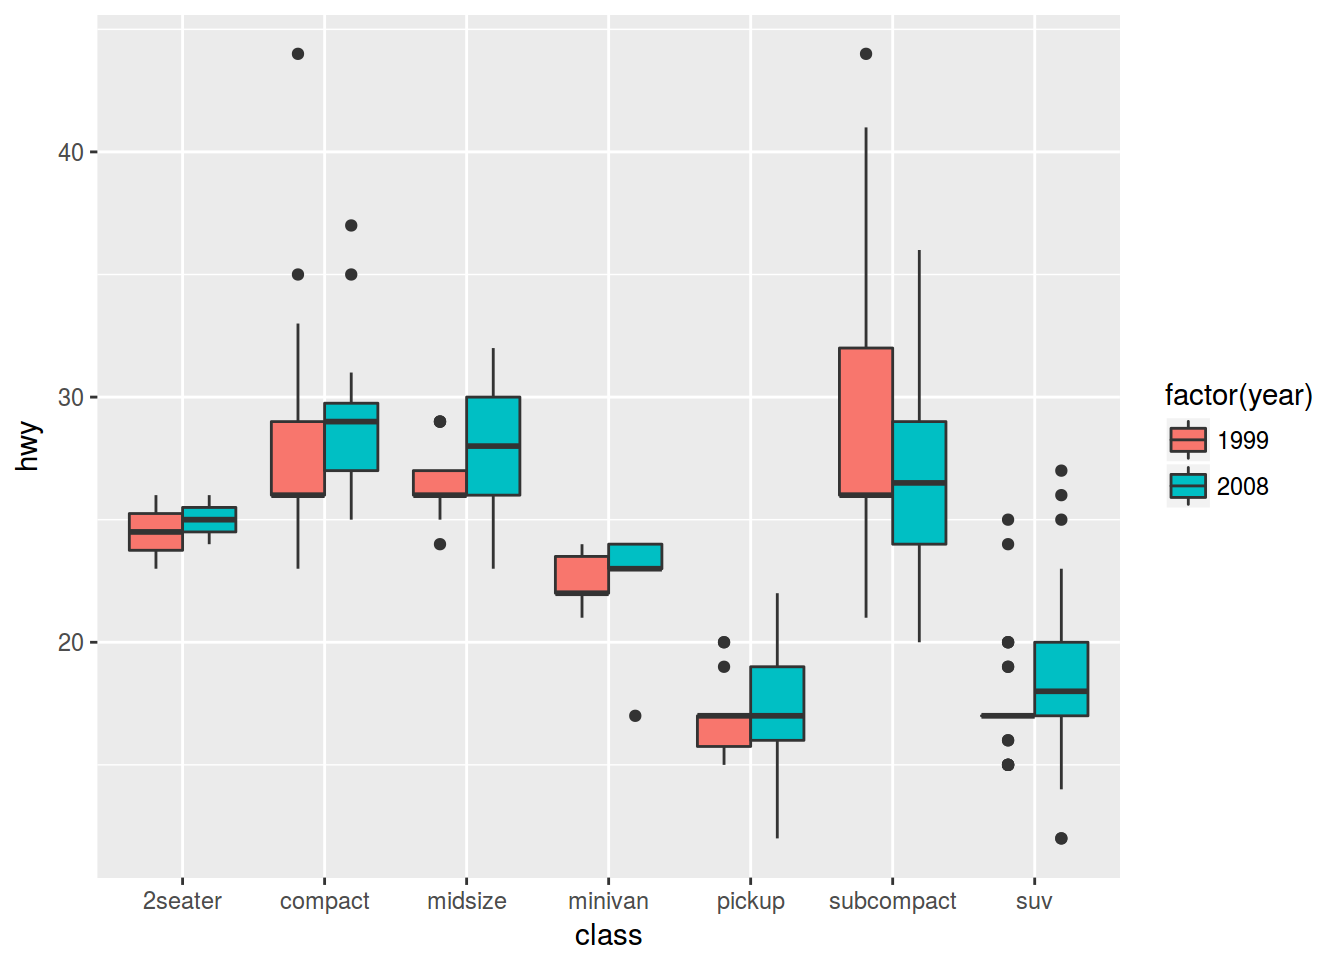
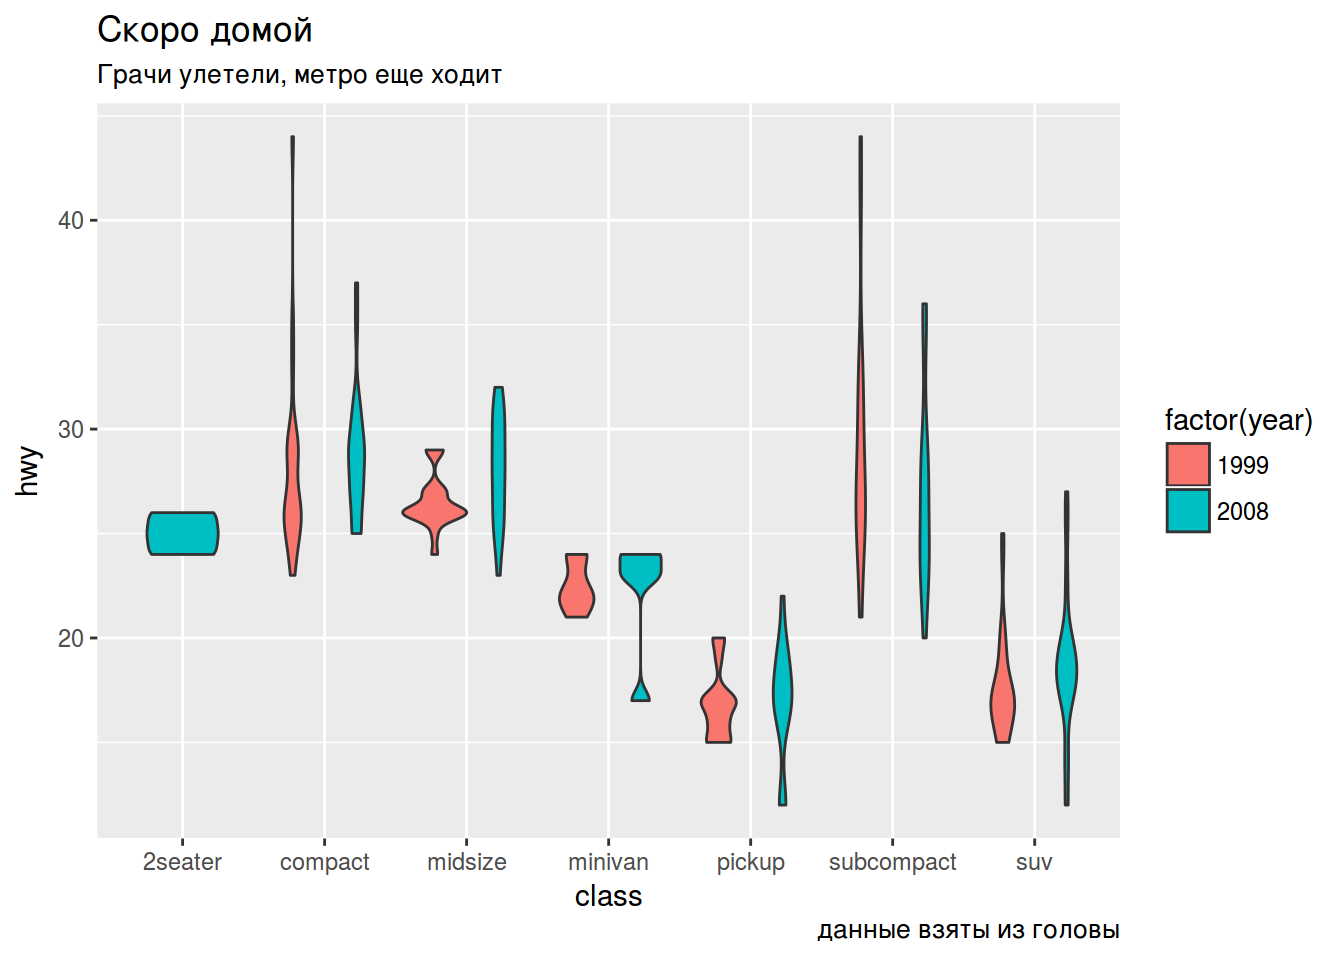
Пт. янв. 20 21:50:19 MSK 2017

diff --git a/docs/Lab_3.html b/docs/Lab_3.html
@@ -237,74 +237,74 @@ $(document).ready(function () {
 dim(g) &lt;- c(5, 10)
 g &lt;- as.data.frame(g)
 g</code></pre>
-<pre><code>##           V1         V2         V3         V4          V5         V6
-## 1 -0.3906030  0.2936376 0.40119968 -2.3344068  1.92845257 -0.5900489
-## 2 -0.3723893  2.0728213 0.81348038 -1.1789533  0.10655859 -0.6241216
-## 3  0.7289473  0.3300075 0.01256707  0.7861965 -0.42154211 -1.7413160
-## 4 -0.1967880  0.4308800 0.88226968 -1.1877634 -0.47596357 -1.4073735
-## 5  1.7636844 -0.3465119 0.72360821  0.3765420  0.03910785 -0.5044907
-##             V7         V8          V9           V10
-## 1 -0.005393339  1.0277711  0.37321027 -1.1573205536
-## 2  0.498100200 -0.4468808 -0.19205959  0.8546541967
-## 3  0.596288161  0.4464950  0.86280102 -1.2967087925
-## 4 -0.269423295 -2.0364316  0.22969663 -0.8217519238
-## 5  0.311527785  0.9988027 -0.04076106  0.0004408674</code></pre>
+<pre><code>##           V1          V2          V3         V4         V5         V6
+## 1 -0.7689990 -1.43682925  3.04209524 -0.6122412  0.4428761  0.1622869
+## 2 -0.1141673 -0.99499620 -1.80242105  1.1195237  1.2884774  0.8434801
+## 3 -1.4527077 -0.09575133  1.80806336  0.2329391 -0.1658976 -1.6407067
+## 4  0.6761093 -1.76329944 -0.67602275 -1.2443085  0.1207234 -1.1703167
+## 5  1.8337603  1.76377325 -0.09168387 -0.3919279 -1.6223369 -0.1888477
+##            V7        V8            V9        V10
+## 1 -0.78797796 1.3762243  0.0187352058  0.6159528
+## 2 -0.09277474 1.3051868  0.6856887918 -0.4159492
+## 3  1.28801116 0.4092669  1.0261824290  0.7339201
+## 4 -1.05455595 1.3285902  0.3753579520  1.1415605
+## 5  0.11466444 0.8944195 -0.0009426804  0.2096234</code></pre>
 <pre class="r"><code>f &lt;- rnorm(30)
 dim(f) &lt;- c(3, 10)
 f &lt;- as.data.frame(f)
 f</code></pre>
-<pre><code>##           V1         V2         V3         V4          V5         V6
-## 1 -0.2898858  2.5657225 -0.6356496  0.9423932  0.06843724  1.6305093
-## 2 -0.3505092 -1.2739990 -1.4405402  0.3651333  0.53277419  1.3377495
-## 3  0.7175777 -0.2451222  0.3634547 -1.2057409 -0.98229970 -0.1278048
-##           V7         V8          V9        V10
-## 1 -0.5677527 -1.1045213 -0.95998077 -0.4545042
-## 2  1.3079504  0.3664014  0.14079065 -1.2052325
-## 3 -1.6214024  0.3802638  0.02783065  0.7469217</code></pre>
+<pre><code>##           V1          V2         V3       V4        V5         V6
+## 1 -1.0537327  0.36883226 -0.5625077 1.316018 1.5440815  0.3545780
+## 2 -0.6528149 -0.22910308 -0.8981459 1.738867 0.9213121 -1.1025051
+## 3  0.9759025  0.09082125 -0.6058794 1.316407 0.7897068 -0.7268273
+##           V7         V8        V9        V10
+## 1  1.6358183  1.1927763 0.5631034 0.08834282
+## 2 -0.4924965 -1.1657266 0.7261409 1.01698924
+## 3 -1.6080715 -0.8399645 1.5903612 0.38924792</code></pre>
 <pre class="r"><code>rbind(g, f)</code></pre>
-<pre><code>##           V1         V2          V3         V4          V5         V6
-## 1 -0.3906030  0.2936376  0.40119968 -2.3344068  1.92845257 -0.5900489
-## 2 -0.3723893  2.0728213  0.81348038 -1.1789533  0.10655859 -0.6241216
-## 3  0.7289473  0.3300075  0.01256707  0.7861965 -0.42154211 -1.7413160
-## 4 -0.1967880  0.4308800  0.88226968 -1.1877634 -0.47596357 -1.4073735
-## 5  1.7636844 -0.3465119  0.72360821  0.3765420  0.03910785 -0.5044907
-## 6 -0.2898858  2.5657225 -0.63564964  0.9423932  0.06843724  1.6305093
-## 7 -0.3505092 -1.2739990 -1.44054018  0.3651333  0.53277419  1.3377495
-## 8  0.7175777 -0.2451222  0.36345475 -1.2057409 -0.98229970 -0.1278048
-##             V7         V8          V9           V10
-## 1 -0.005393339  1.0277711  0.37321027 -1.1573205536
-## 2  0.498100200 -0.4468808 -0.19205959  0.8546541967
-## 3  0.596288161  0.4464950  0.86280102 -1.2967087925
-## 4 -0.269423295 -2.0364316  0.22969663 -0.8217519238
-## 5  0.311527785  0.9988027 -0.04076106  0.0004408674
-## 6 -0.567752738 -1.1045213 -0.95998077 -0.4545041511
-## 7  1.307950417  0.3664014  0.14079065 -1.2052325037
-## 8 -1.621402425  0.3802638  0.02783065  0.7469217451</code></pre>
+<pre><code>##           V1          V2          V3         V4         V5         V6
+## 1 -0.7689990 -1.43682925  3.04209524 -0.6122412  0.4428761  0.1622869
+## 2 -0.1141673 -0.99499620 -1.80242105  1.1195237  1.2884774  0.8434801
+## 3 -1.4527077 -0.09575133  1.80806336  0.2329391 -0.1658976 -1.6407067
+## 4  0.6761093 -1.76329944 -0.67602275 -1.2443085  0.1207234 -1.1703167
+## 5  1.8337603  1.76377325 -0.09168387 -0.3919279 -1.6223369 -0.1888477
+## 6 -1.0537327  0.36883226 -0.56250770  1.3160185  1.5440815  0.3545780
+## 7 -0.6528149 -0.22910308 -0.89814588  1.7388670  0.9213121 -1.1025051
+## 8  0.9759025  0.09082125 -0.60587939  1.3164067  0.7897068 -0.7268273
+##            V7         V8            V9         V10
+## 1 -0.78797796  1.3762243  0.0187352058  0.61595283
+## 2 -0.09277474  1.3051868  0.6856887918 -0.41594923
+## 3  1.28801116  0.4092669  1.0261824290  0.73392007
+## 4 -1.05455595  1.3285902  0.3753579520  1.14156053
+## 5  0.11466444  0.8944195 -0.0009426804  0.20962345
+## 6  1.63581832  1.1927763  0.5631034392  0.08834282
+## 7 -0.49249654 -1.1657266  0.7261409444  1.01698924
+## 8 -1.60807153 -0.8399645  1.5903611718  0.38924792</code></pre>
 <pre class="r"><code>h &lt;- rnorm(21)
 dim(h) &lt;- c(3, 7)
 h &lt;- as.data.frame(h)
 h</code></pre>
-<pre><code>##           V1         V2          V3        V4          V5         V6
-## 1 -0.6311045  0.3631047 -0.08379967 2.0557060 -1.25047188 -0.7049283
-## 2  0.1743921 -0.7512891 -0.64933660 1.0333290  0.04976964  0.6909728
-## 3 -0.2723793  0.2563374 -0.24858694 0.3874132  0.65352064  0.4450006
-##          V7
-## 1 0.4835437
-## 2 0.3901150
-## 3 2.4381321</code></pre>
+<pre><code>##             V1         V2         V3          V4         V5         V6
+## 1 2.341295e-05  0.4210714 -1.1193464 -0.82754971  1.4867576  0.1432163
+## 2 6.310463e-01 -1.1800023 -2.4056570  1.96795632 -0.4789612  0.1432688
+## 3 2.522756e-01 -0.4633277 -0.1857992  0.03375077 -0.3732543 -1.1423365
+##           V7
+## 1  0.2000431
+## 2  1.0933539
+## 3 -1.1439132</code></pre>
 <pre class="r"><code>cbind(f, h)</code></pre>
-<pre><code>##           V1         V2         V3         V4          V5         V6
-## 1 -0.2898858  2.5657225 -0.6356496  0.9423932  0.06843724  1.6305093
-## 2 -0.3505092 -1.2739990 -1.4405402  0.3651333  0.53277419  1.3377495
-## 3  0.7175777 -0.2451222  0.3634547 -1.2057409 -0.98229970 -0.1278048
-##           V7         V8          V9        V10         V1         V2
-## 1 -0.5677527 -1.1045213 -0.95998077 -0.4545042 -0.6311045  0.3631047
-## 2  1.3079504  0.3664014  0.14079065 -1.2052325  0.1743921 -0.7512891
-## 3 -1.6214024  0.3802638  0.02783065  0.7469217 -0.2723793  0.2563374
-##            V3        V4          V5         V6        V7
-## 1 -0.08379967 2.0557060 -1.25047188 -0.7049283 0.4835437
-## 2 -0.64933660 1.0333290  0.04976964  0.6909728 0.3901150
-## 3 -0.24858694 0.3874132  0.65352064  0.4450006 2.4381321</code></pre>
+<pre><code>##           V1          V2         V3       V4        V5         V6
+## 1 -1.0537327  0.36883226 -0.5625077 1.316018 1.5440815  0.3545780
+## 2 -0.6528149 -0.22910308 -0.8981459 1.738867 0.9213121 -1.1025051
+## 3  0.9759025  0.09082125 -0.6058794 1.316407 0.7897068 -0.7268273
+##           V7         V8        V9        V10           V1         V2
+## 1  1.6358183  1.1927763 0.5631034 0.08834282 2.341295e-05  0.4210714
+## 2 -0.4924965 -1.1657266 0.7261409 1.01698924 6.310463e-01 -1.1800023
+## 3 -1.6080715 -0.8399645 1.5903612 0.38924792 2.522756e-01 -0.4633277
+##           V3          V4         V5         V6         V7
+## 1 -1.1193464 -0.82754971  1.4867576  0.1432163  0.2000431
+## 2 -2.4056570  1.96795632 -0.4789612  0.1432688  1.0933539
+## 3 -0.1857992  0.03375077 -0.3732543 -1.1423365 -1.1439132</code></pre>
 <pre class="r"><code># cbind.data.frame()
 # rbind.data.frame()</code></pre>
 </div>

diff --git a/docs/Lab_4.html b/docs/Lab_4.html
@@ -412,8 +412,12 @@ df</code></pre>
 ##  $ fl          : chr  &quot;p&quot; &quot;p&quot; &quot;p&quot; &quot;p&quot; ...
 ##  $ class       : chr  &quot;compact&quot; &quot;compact&quot; &quot;compact&quot; &quot;compact&quot; ...</code></pre>
 <pre class="r"><code>mpg %&gt;%
-  ggplot(aes(class, hwy, fill = factor(year)))+
-  geom_boxplot()</code></pre>
+  ggplot(aes(class, hwy, 
+             fill = factor(year)))+
+  geom_violin()+
+  labs(title = &quot;Скоро домой&quot;,
+       subtitle = &quot;Грачи улетели, метро еще ходит&quot;,
+       caption = &quot;данные взяты из головы&quot;)</code></pre>
 <p><img src="Lab_4_files/figure-html/unnamed-chunk-14-1.png" width="672" /></p>
 
 
